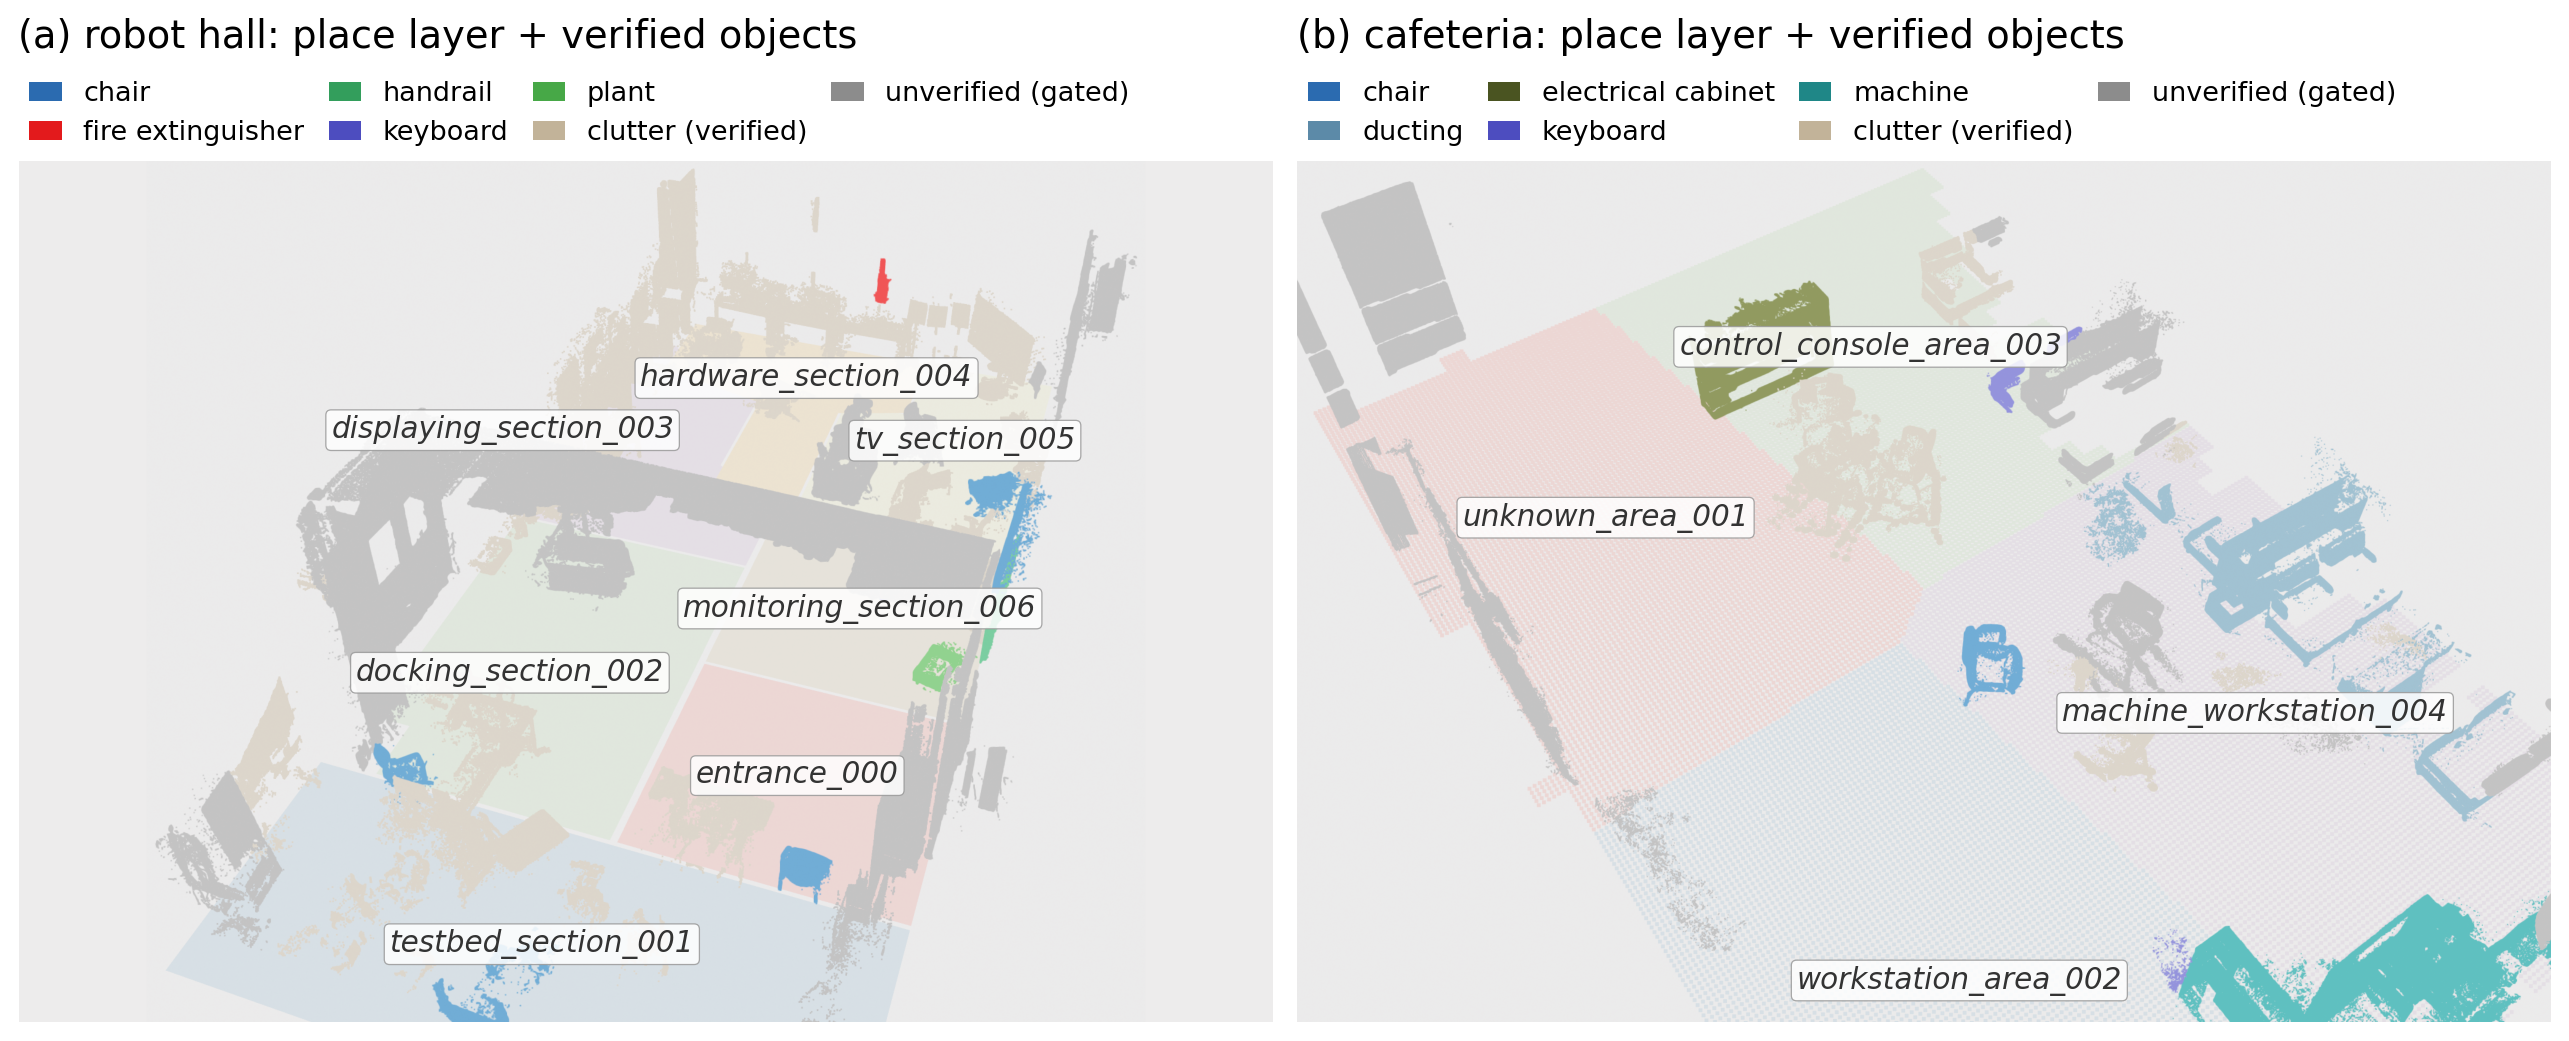
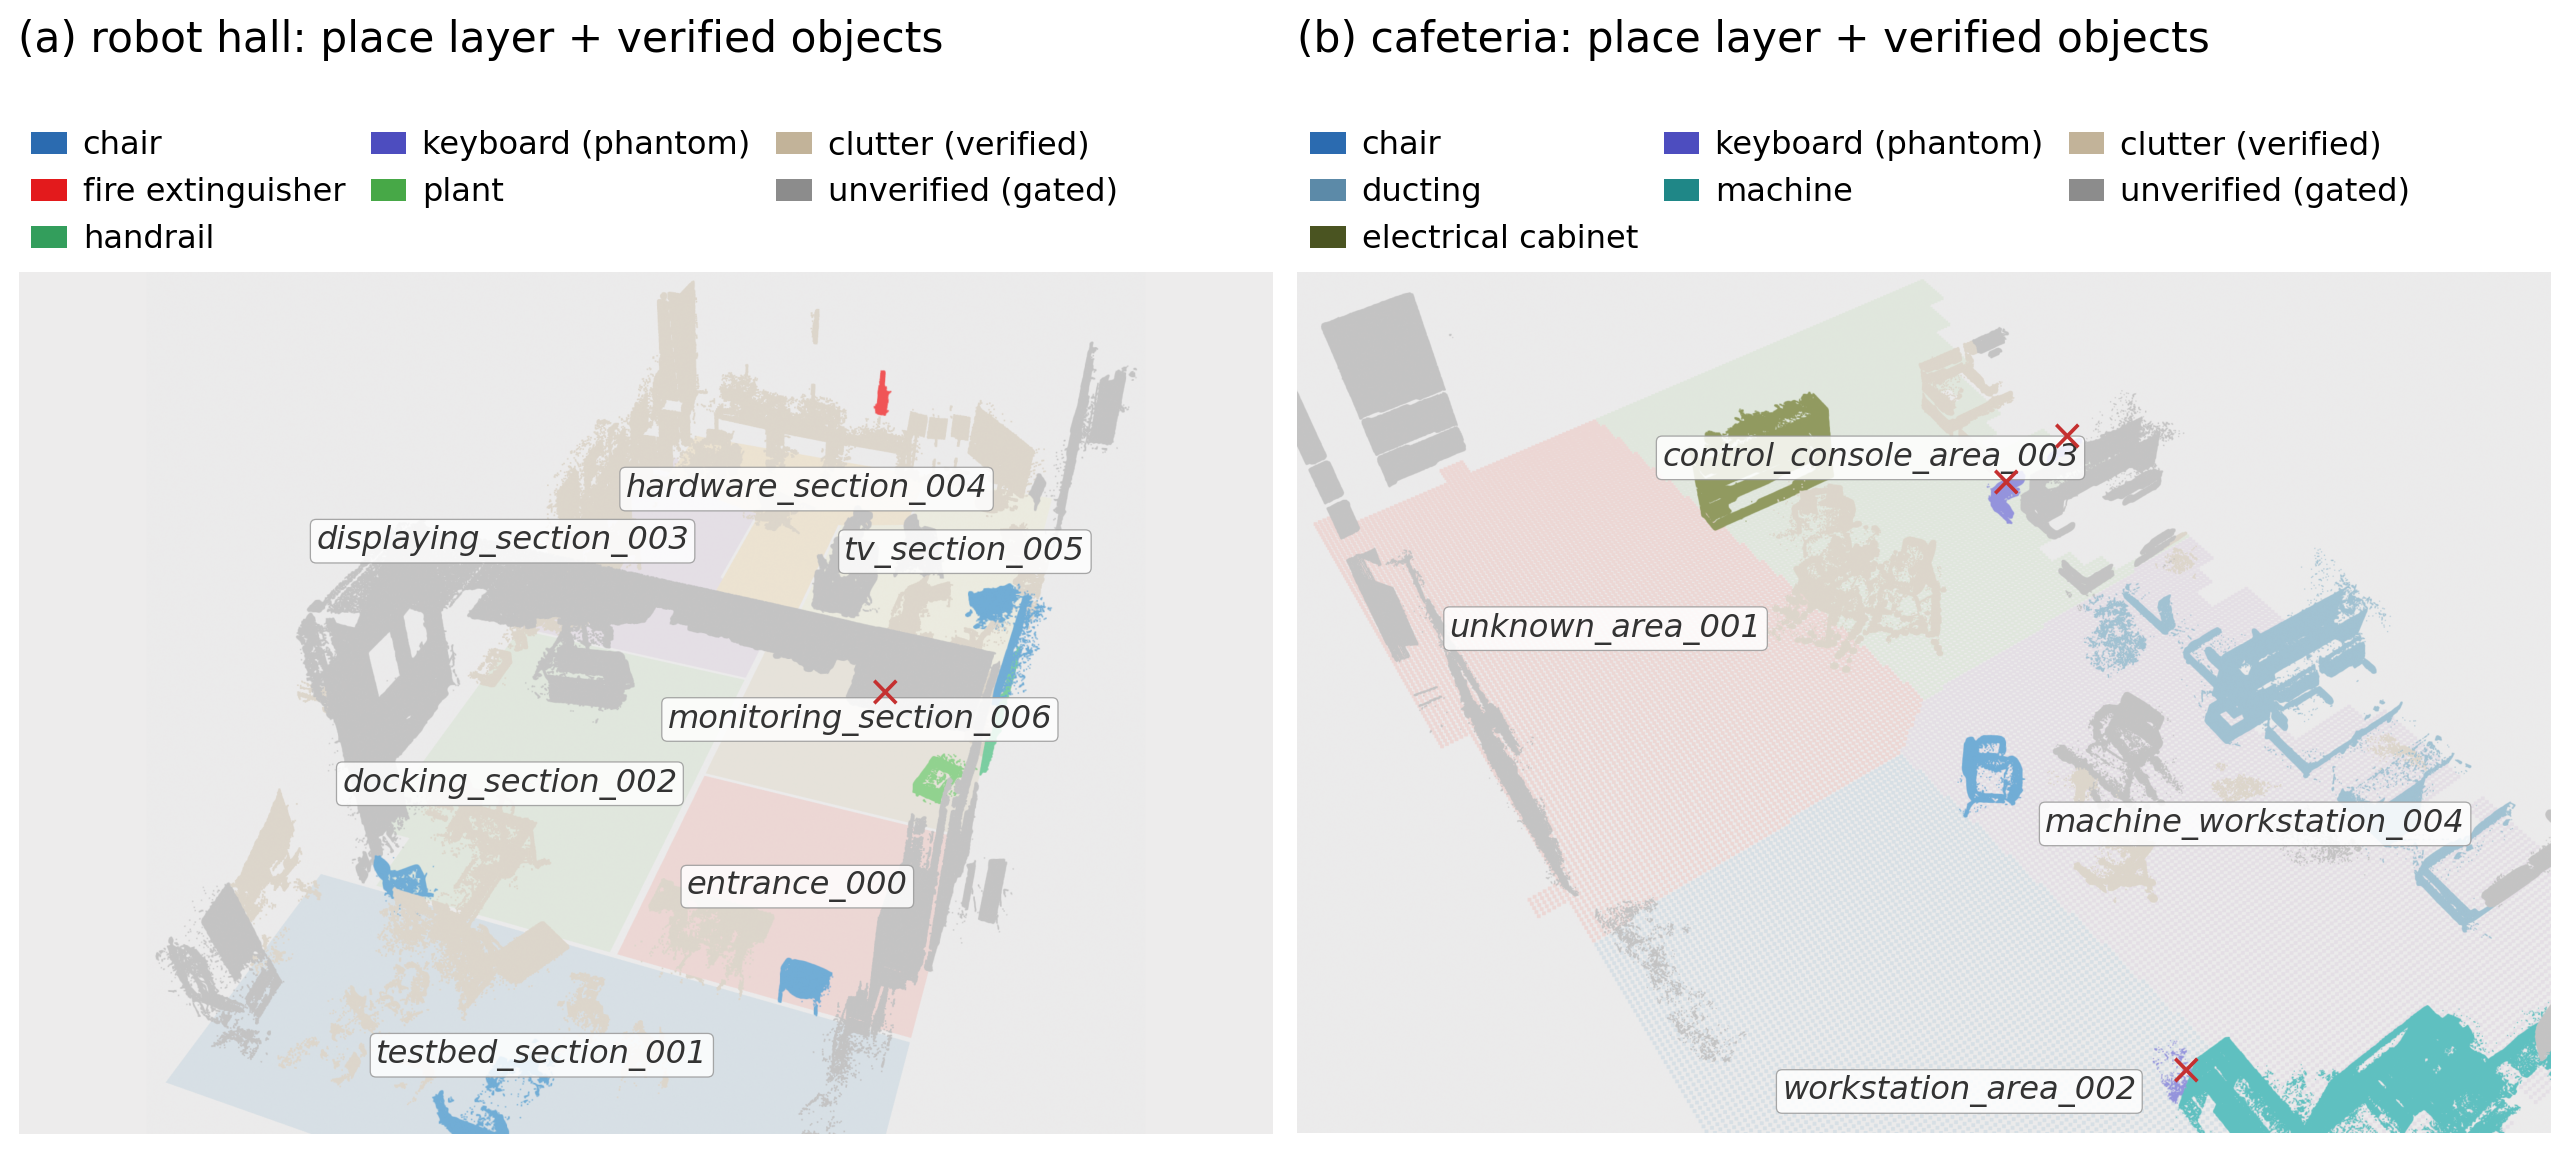
fig19: legend fonts 12.5 in 3 columns (no overflow), phantom keyboards marked with red crosses + '(phantom)' legend label (user: no keyboard exists), caption explains the marks

diff --git a/docs/electronics2026/manuscript/sec3_overview.tex b/docs/electronics2026/manuscript/sec3_overview.tex
@@ -75,11 +75,12 @@ colored by verified class; gray clusters are \texttt{unverified} and
 demoted at query time. (b)~The cafeteria stress scene under the same
 representation, its place layer derived by the identical SLIC recipe
 after synthesizing the occupancy grid from the scan's floor points (no
-SLAM run exists for this scene). Place naming is verifier-bounded here
-too: the keyboard phantoms of Sec.~\ref{sec:exp-ablation} pull two
-region names toward workstation/console semantics---the same
-label-propagation mechanism as the \texttt{staircase\_landing} case of
-Sec.~\ref{sec:exp-verify}.}
+SLAM run exists for this scene). Red crosses mark verified-keyboard
+clusters that are owner-refuted phantoms---no keyboard exists in either
+scene---and place naming is verifier-bounded accordingly: the cafeteria
+phantoms pull two region names toward workstation/console
+semantics, the same label-propagation mechanism as the
+\texttt{staircase\_landing} case of Sec.~\ref{sec:exp-verify}.}
 \label{fig:semmap}
 \end{figure}
 
